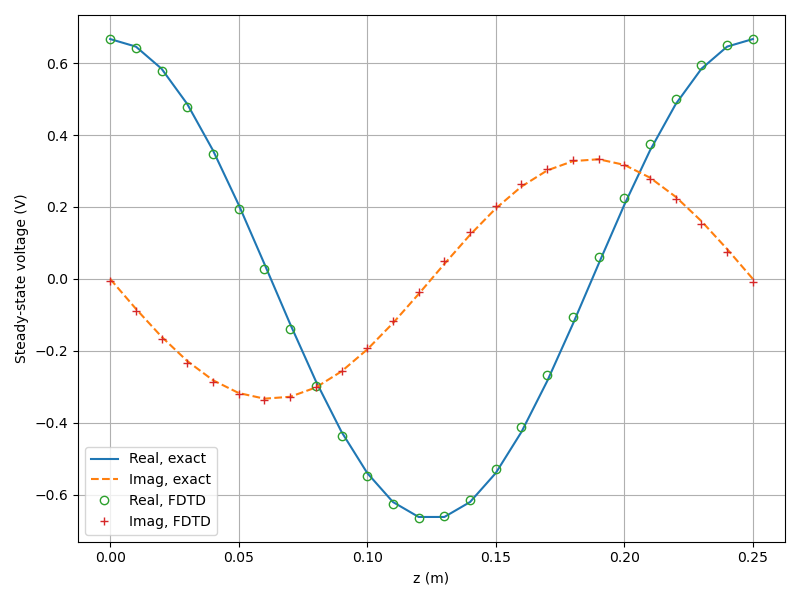
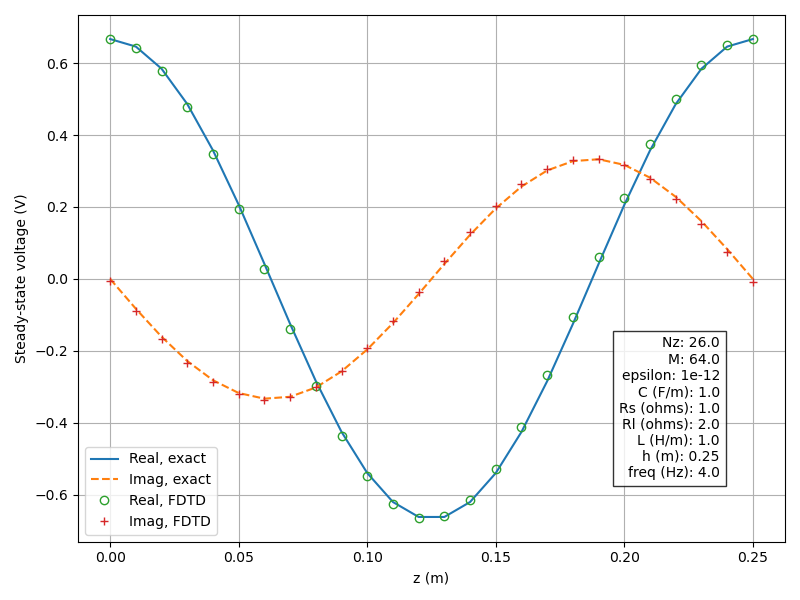
Ajustado dados no gráfico de comparação de tensão

Changed region(s): [[0.75, 0.54, 0.9375, 0.84]]

diff --git a/Cap_02/scripts/plot_fdtd_results.py b/Cap_02/scripts/plot_fdtd_results.py
@@ -11,8 +11,13 @@ out_dir = "../out"
 #voltage_final = np.loadtxt(os.path.join(out_dir, "fdtd_voltage.csv"))
 #voltage_series = np.loadtxt(os.path.join(out_dir, "fdtd_time_series.csv"), delimiter=",")
 #spectrum = np.loadtxt(os.path.join(out_dir, "fdtd_spectrum.csv"), delimiter=",")
-
+# Lê os parâmetros da simulação
+parametros = pd.read_csv(os.path.join(out_dir, 'simulation_parameters.csv'))
 comparison_voltage = pd.read_csv(os.path.join(out_dir, 'comparison_voltage.csv'))
+
+
+#print("\nParâmetros da Simulação:")
+#print(parametros.to_string(index=False))
 
 # Extrai os dados
 z_exact = comparison_voltage['z_exact']
@@ -43,6 +48,9 @@ plt.ylabel('Steady-state voltage (V)')
 plt.legend()
 plt.grid(True)
 plt.tight_layout()
+
+param_text = "\n".join(f"{row['Parameter']}: {row['Value']}" for _, row in parametros.iterrows())
+plt.gcf().text(0.9, 0.2, param_text, ha='right', va='bottom', bbox=dict(facecolor='white', alpha=0.8))
 
 # Salva o gráfico como arquivo PNG
 plt.savefig(os.path.join(out_dir, 'comparison_voltage_plot.png'))
